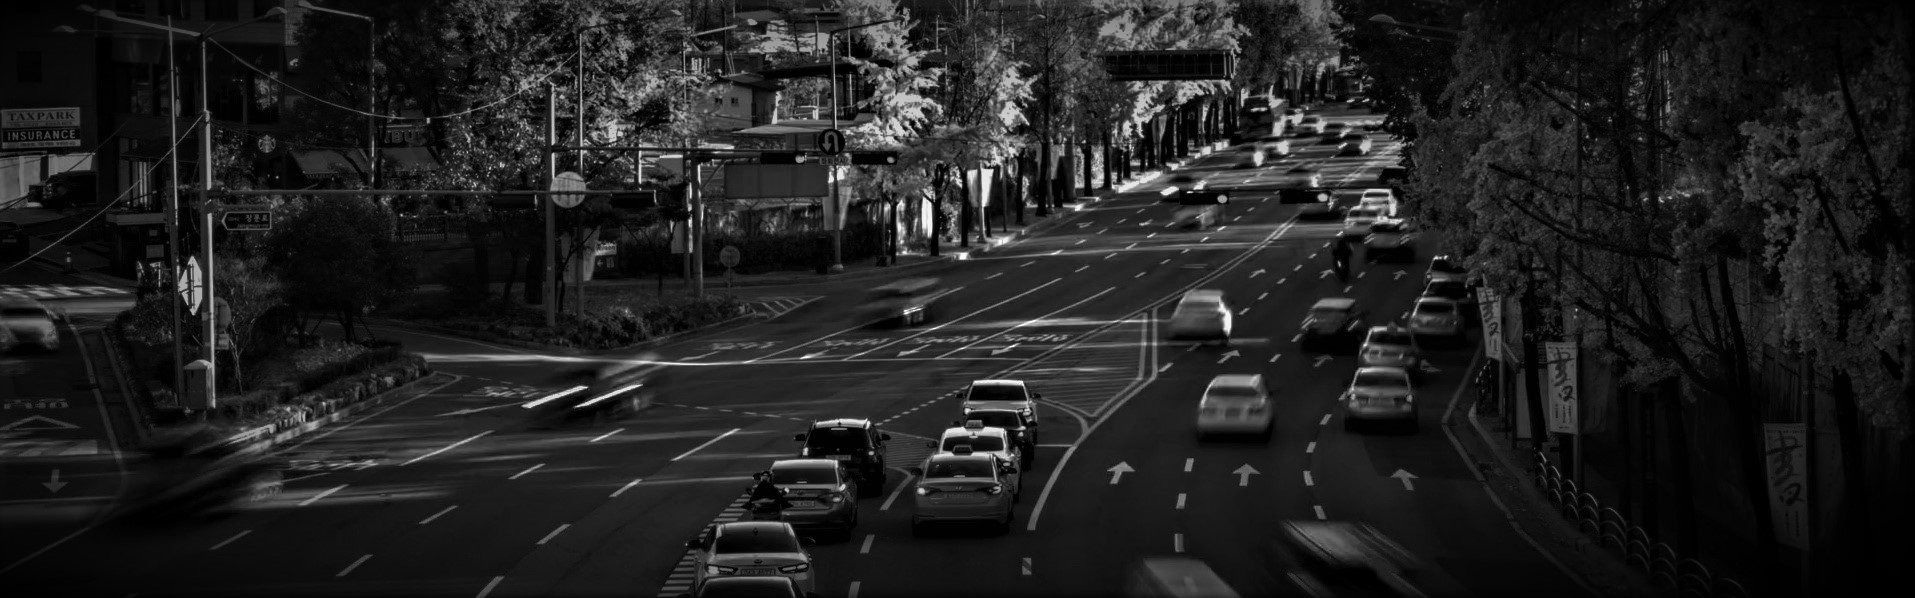
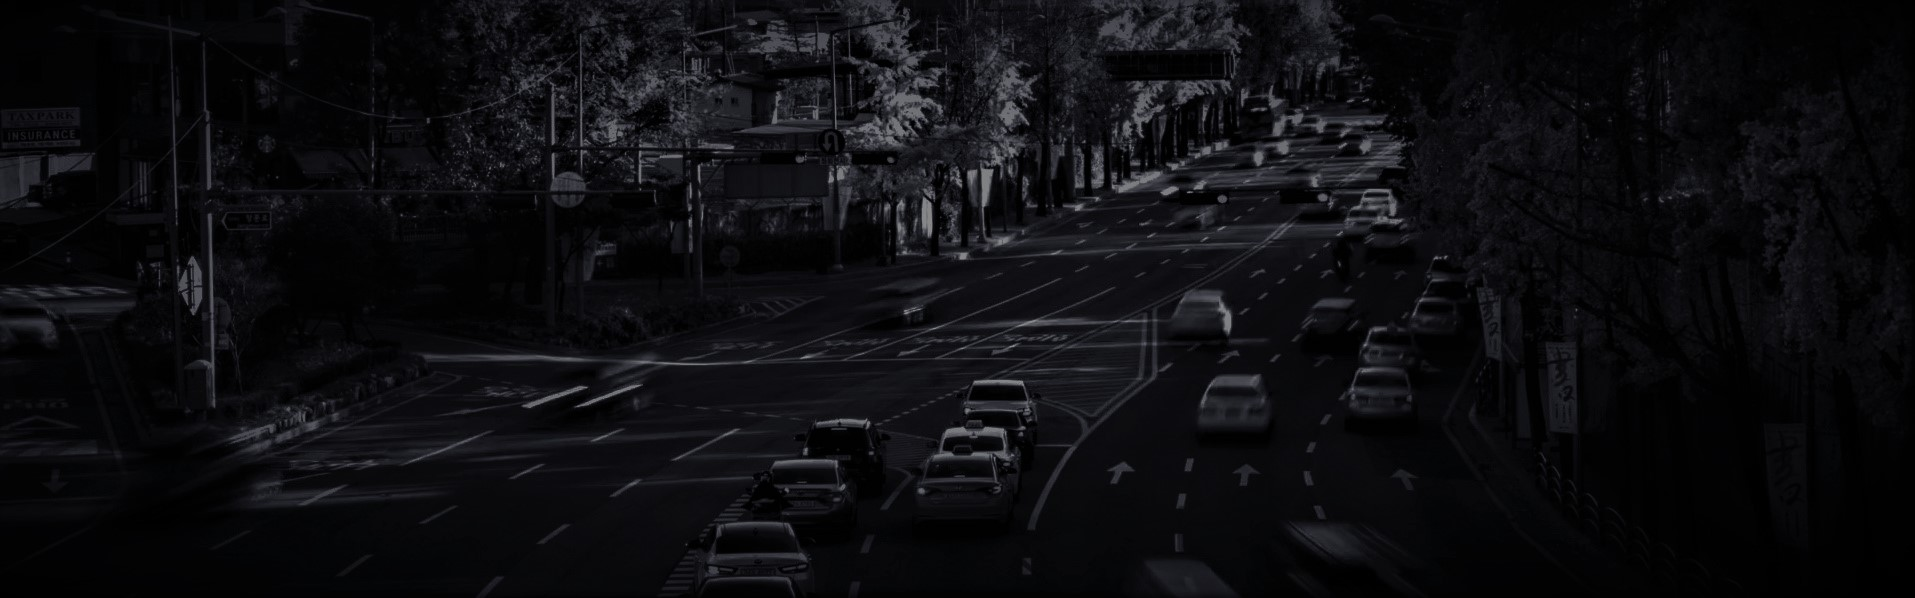
aggiunto tramite overlay sfondo nero alle card della section news

diff --git a/src/components/AppNews.vue b/src/components/AppNews.vue
@@ -27,6 +27,7 @@ export default {
         <div class="card">
           <div class="image">
             <img src="../assets/img/news-1.jpg" alt="" />
+            <div class="overlay"></div>
             <div class="text">
               <p>Increasing creativity is possible for everyone</p>
             </div>
@@ -35,6 +36,7 @@ export default {
         <div class="card">
           <div class="image">
             <img src="../assets/img/news-2.jpg" alt="" />
+            <div class="overlay"></div>
             <div class="text">
               <p>Because market research is part of the business plan</p>
             </div>
@@ -43,6 +45,7 @@ export default {
         <div class="card">
           <div class="image">
             <img src="../assets/img/news-3.jpg" alt="" />
+            <div class="overlay"></div>
             <div class="text"><p>Working from home is now a trend</p></div>
           </div>
         </div>
@@ -95,10 +98,21 @@ export default {
   img {
     width: 100%;
     border-radius: 10px;
+    display: block;
   }
   .card {
+    border-radius: 10px;
     .image {
       position: relative;
+      .overlay {
+        position: absolute;
+        top: 0;
+        left: 0;
+        right: 0;
+        bottom: 0;
+        background-color: rgba(0, 0, 0, 0.6);
+        border-radius: 10px;
+      }
 
       .text {
         position: absolute;

diff --git a/src/store.js b/src/store.js
@@ -1,5 +1,6 @@
 import { reactive } from "vue";
 export const store = reactive({
+  // lista card dei servici
   listService: [
     {
       icon: "fa-solid fa-network-wired",
@@ -32,6 +33,7 @@ export const store = reactive({
       description: "Lorem ipsum dolor sit amet consectetur adipisicing elit ",
     },
   ],
+  // lista dei membri del team
   listTeam: [
     {
       img: "team-1.jpg",
@@ -54,7 +56,9 @@ export const store = reactive({
       role: "CEO & PRESIDENT",
     },
   ],
+  // lista li dell'header
   listHeader: ["HOME", "ABOUT", "SERVICES", "TEAM", "BLOG"],
+  // lista footer
   listAbout: [
     "The Company",
     "Institutional",

diff --git a/src/components/ResultNumber.vue b/src/components/ResultNumber.vue
@@ -43,7 +43,6 @@ export default {
   .opaco {
     width: 100%;
     height: 100%;
-    background-color: rgba(128, 128, 128, 0.4);
   }
 }
 .container {
@@ -71,11 +70,11 @@ export default {
     li {
       p {
         color: $fontocean;
-        font-size: 2rem;
+        font-size: 2.5rem;
         font-weight: 900;
       }
       .subtitle {
-        font-size: 1.2rem;
+        font-size: 1.5rem;
         padding: 20px;
         color: white;
         margin-bottom: 100px;

diff --git a/src/components/IntroducingVideo.vue b/src/components/IntroducingVideo.vue
@@ -58,7 +58,8 @@ export default {
   .imagevideo {
     position: relative;
     background-image: url(../assets/img/video-1.jpg);
-    background-size: contain;
+    background-size: cover;
+    background-position: center;
     height: 370px;
     width: 80%;
     margin: 0 auto;
